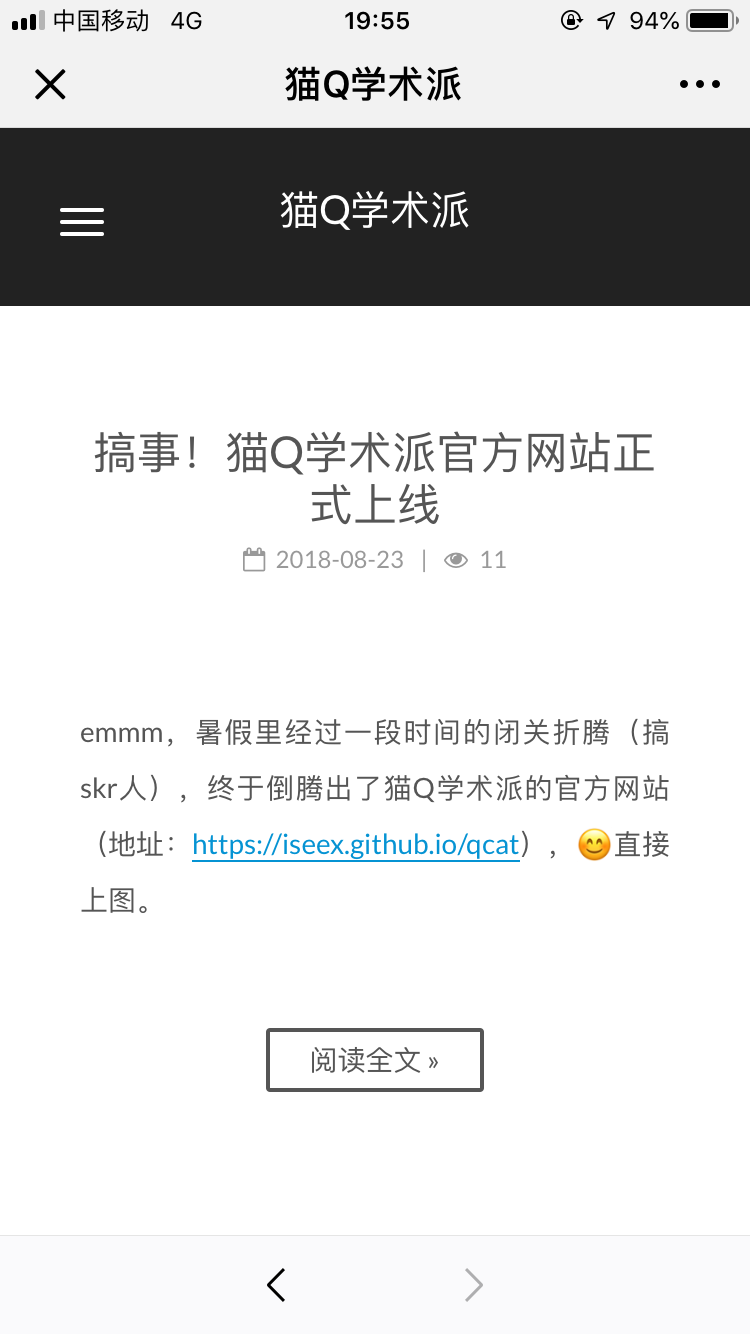
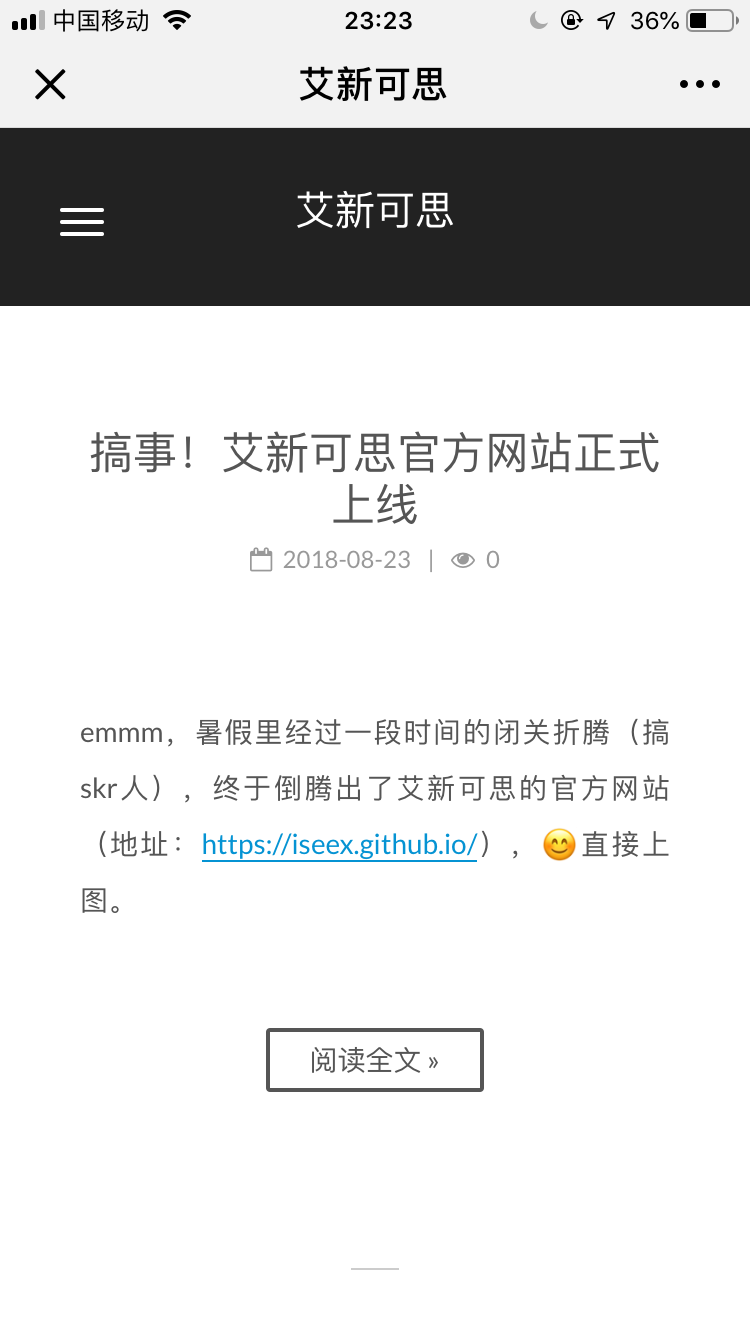
1

diff --git a/_posts/2018-08-23-ISEEX-website.md b/_posts/2018-08-23-ISEEX-website.md
@@ -6,11 +6,11 @@ typora-root-url: ../../iseex.github.io
 
 emmm，暑假里经过一段时间的闭关折腾（搞skr人），终于倒腾出了艾新可思的官方网站（地址：[https://iseex.github.io/](https://iseex.github.io/)），😊直接上图。
 
-![](/assets/images/posts/GitHub-Pages/catq-site.jpg)
+![](/assets/images/posts/GitHub-Pages/ISEEX-site.jpg)
 
 怎么，不够看，那就来张动图。
 
-![](/assets/images/posts/GitHub-Pages/catq-gif.gif)
+![](/assets/images/posts/GitHub-Pages/ISEEX-gif.gif)
 
 什么，怎么都是在电脑端看的…好吧，再上个自动适配移动端的艾新可思网站截图（点击公众号菜单栏**线上小站**也可以访问）。
 
